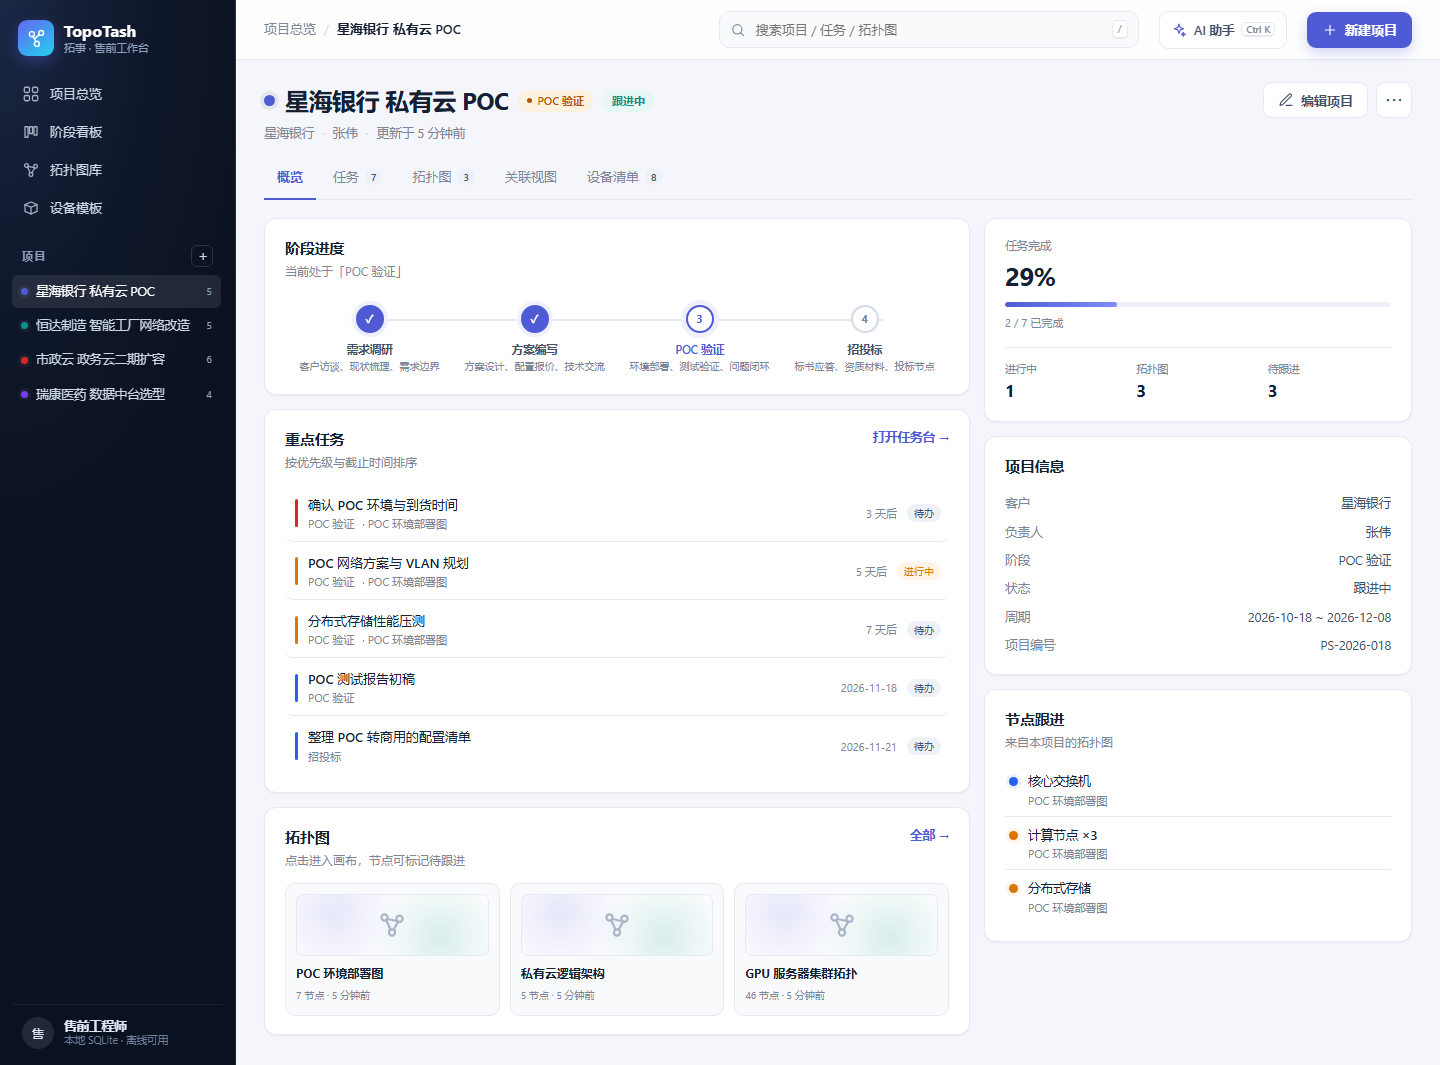
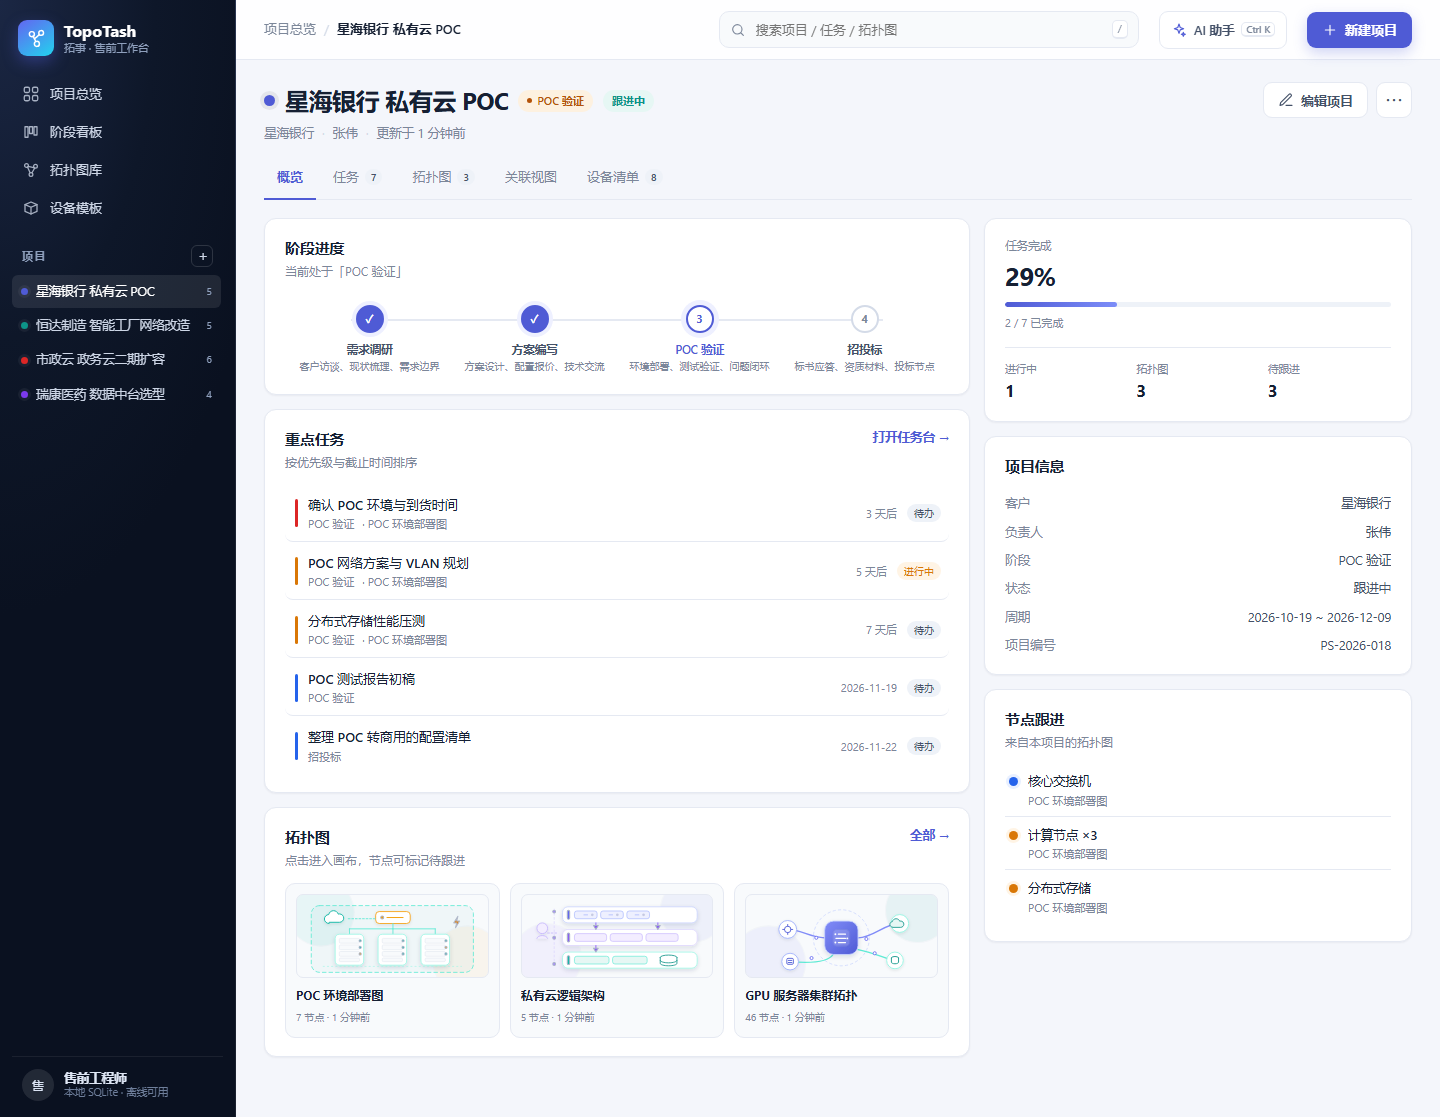
Fix project overview topology thumbnails
The overview mini cards used the generic diagram placeholder instead of
the type-specific artwork used by the topology library. Reuse
TTDiagramThumbs.forKind() and size the thumbnail area to fit the
320x150 illustrations. Refresh the overview screenshot.

diff --git a/static/css/topotash.css b/static/css/topotash.css
@@ -432,11 +432,9 @@ svg { width: 18px; height: 18px; stroke: currentColor; stroke-width: 1.7; stroke
   cursor: pointer; transition: border-color .15s, background .15s;
 }
 .mini-diagram:hover { border-color: rgba(79,91,213,.42); background: #fff; }
-.mini-diagram .md-thumb { height: 62px; border-radius: 7px; background:
-  radial-gradient(circle at 20% 30%, rgba(79,91,213,.14), transparent 45%),
-  radial-gradient(circle at 75% 70%, rgba(13,148,136,.16), transparent 45%), #fff;
-  border: 1px solid var(--line); margin-bottom: 8px; display: grid; place-items: center; color: #aab4c8; }
-.mini-diagram .md-thumb svg { width: 30px; height: 30px; }
+.mini-diagram .md-thumb { height: 84px; border-radius: 7px; background: var(--surface-2);
+  border: 1px solid var(--line); margin-bottom: 8px; overflow: hidden; color: #aab4c8; }
+.mini-diagram .md-thumb svg { width: 100%; height: 100%; display: block; }
 .mini-diagram b { display: block; font-size: 12px; overflow: hidden; text-overflow: ellipsis; white-space: nowrap; }
 .mini-diagram span { font-size: 10px; color: var(--muted); }
 

diff --git a/static/js/project.js b/static/js/project.js
@@ -84,11 +84,16 @@
 
     const dBox = document.getElementById('overviewDiagrams');
     const list = (p.diagrams || []).slice(0, 4);
-    dBox.innerHTML = list.length ? list.map(d => `
+    dBox.innerHTML = list.length ? list.map(d => {
+      const thumb = window.TTDiagramThumbs
+        ? window.TTDiagramThumbs.forKind(d.kind)
+        : TT.icon.diagram;
+      return `
       <div class="mini-diagram" data-id="${d.id}">
-        <div class="md-thumb">${TT.icon.diagram}</div>
+        <div class="md-thumb">${thumb}</div>
         <b>${TT.esc(d.name)}</b><span>${d.node_count || 0} 节点 · ${TT.relative(d.updated_at)}</span>
-      </div>`).join('') : TT.empty('还没有拓扑图');
+      </div>`;
+    }).join('') : TT.empty('还没有拓扑图');
     dBox.querySelectorAll('.mini-diagram').forEach(el => {
       el.onclick = () => { location.href = `/projects/${PROJECT_ID}/diagrams/${el.dataset.id}`; };
     });
